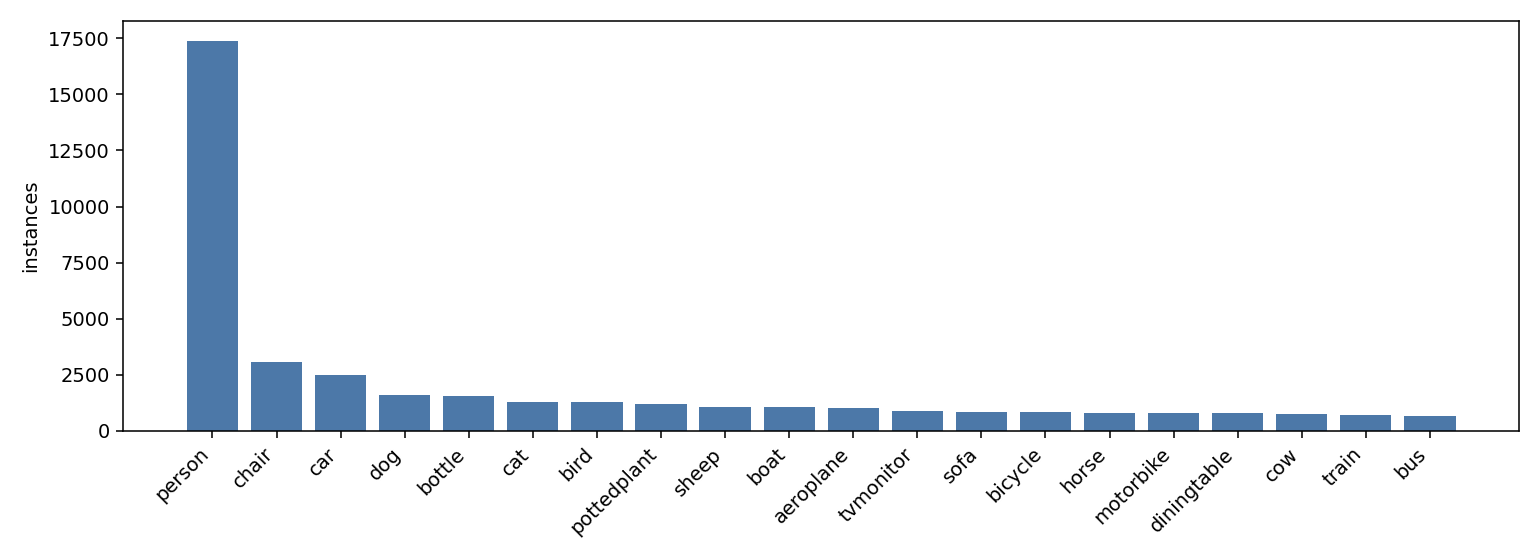
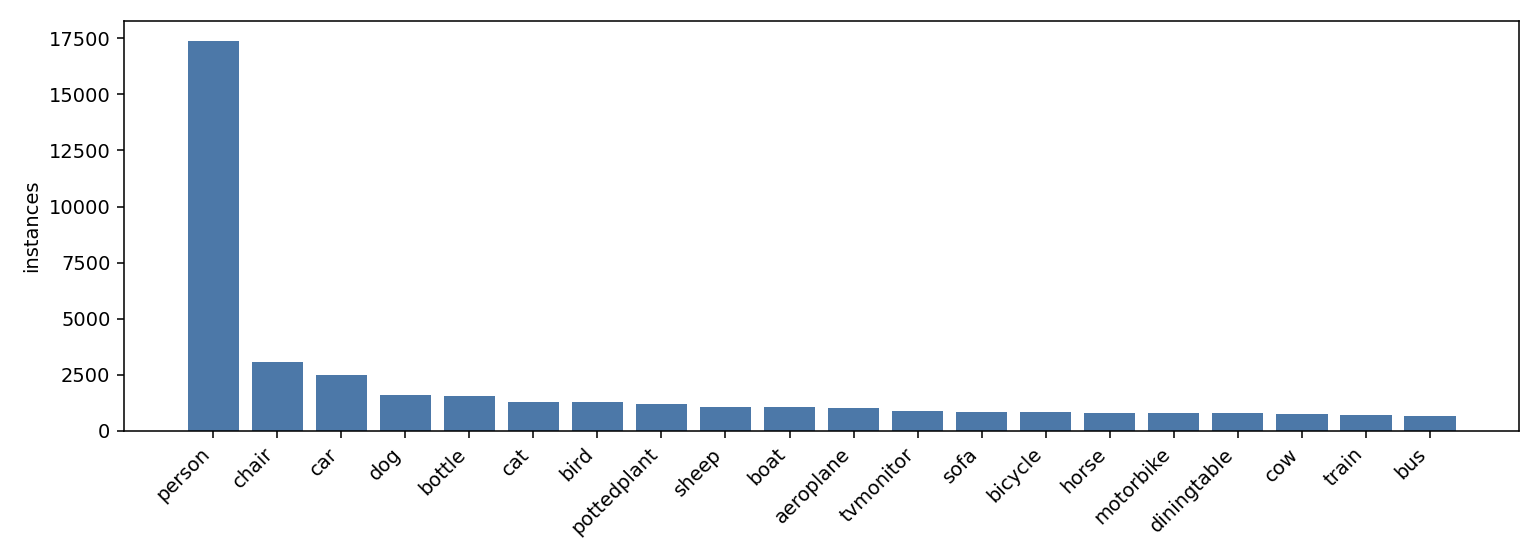
D2: 完成 VOC 数据集类与画框验证脚本

diff --git a/scripts/VOC_dataset.py b/scripts/VOC_dataset.py
@@ -1,0 +1,126 @@
+import os                        # 拼路径、列目录、判断文件存在
+import glob                      # 批量扫 *.xml —— 比 os.listdir 少写一步过滤
+import xml.etree.ElementTree as ET   # 解析 XML —— 标准库，不用 pip
+import numpy as np               # 组装 boxes/labels 数组
+import cv2                       # 读图 —— 比 PIL 快，且 BGR 顺序正好能练"记得转 RGB"
+import torch                     # 转 tensor —— Dataset 的标准返回类型
+from torch.utils.data import Dataset   # 继承基类 —— 只用它的接口约定，没有实际功能
+
+VOC_CLASSES = [
+    "aeroplane", "bicycle", "bird", "boat", "bottle",
+    "bus", "car", "cat", "chair", "cow",
+    "diningtable", "dog", "horse", "motorbike", "person",
+    "pottedplant", "sheep", "sofa", "train", "tvmonitor",
+]
+
+class VOCDataset(Dataset):
+    def __init__(self, voc_root,split="train",skip_difficult=False):
+        self.voc_root = voc_root
+        self.split = split
+        self.skip_difficult = skip_difficult
+
+        # 参数 voc_root: str，VOC2012 根目录
+        #   例：r"D:\target_detection\data\VOCdevkit\VOC2012"
+        # 参数 split: str，用哪个划分，"train"/"val"/"trainval"
+        # 参数 skip_difficult: bool，是否跳过 difficult=1 的框
+        #   为什么默认 False：训练时保留能见更多样本；评估时必须开 True 才和 VOC 官方口径一致
+
+        self.ann_dir = os.path.join(voc_root, "Annotations")
+        self.jpeg_dir = os.path.join(voc_root, "JPEGImages")
+        self.set_dir = os.path.join(voc_root, "ImageSets", "Main")
+
+        #第一步，扫描所有xml
+        xml_files = glob.glob(os.path.join(self.ann_dir, "*.xml"))
+        #排序后每次运行样本一致，方便调试
+        xml_files = sorted(xml_files)
+        #存图片的id
+        all_stems = [os.path.splitext(os.path.basename(p))[0] for p in xml_files]
+
+        #按split过滤
+        if split == "all":         #不做过滤
+            self.stems = all_stems
+        else:
+            split_file = os.path.join(self.set_dir, f"{split}.txt")
+            with open(split_file, "r") as f:
+                # 变量 keep：set[str]，该划分包含的图片 id
+                #   为什么用 set 不用 list：下面要做 17125 次成员判断，
+                #   set 是 O(1) 哈希查找，list 是 O(n) 遍历 —— 差三个数量级
+                keep = {line.strip() for line in f if line.strip()}
+                # 【坑】一定要 if line.strip() 过滤空行
+                #   train.txt 末尾可能有空行，不过滤会在 keep 里塞进一个空字符串
+                self.stems = [s for s in all_stems if s in keep]
+        #检查
+        if len(self.stems) == 0:
+            raise ValueError(
+                f"样本数为 0!检查 voc_root 和 split:\n"
+                f"  voc_root = {voc_root}\n"
+                f"  split    = {split}\n"
+                f"  路径存在 = {os.path.exists(voc_root)}"
+            )
+
+
+    def _parse_xml(self,stem):
+        #定位并解析xml
+        xml_path = os.path.join(self.ann_dir, f"{stem}.xml")
+        #   返回 root: xml.etree.ElementTree.Element，代表 <annotation> 根节点
+        root = ET.parse(xml_path).getroot()
+        #取出所有物体
+        objs = root.findall("object")
+        #逐条读取，边读变换算
+        boxes_list = []
+        label_list = []
+
+        for obj in objs:
+            if self.skip_difficult and int(obj.find("difficult").text)==1:
+                continue
+            #类别，编号0被“背景”占用，要加1
+            label =VOC_CLASSES.index(obj.find("name").text) +1
+
+            #坐标
+            bb = obj.find("bndbox")
+            x1 = float(bb.find("xmin").text) -1
+            y1 = float(bb.find("ymin").text) -1 
+            x2 = float(bb.find("xmax").text) - 1
+            y2 = float(bb.find("ymax").text) -1
+            boxes_list.append([x1,y1,x2,y2])
+            label_list.append(label)
+        #组装成numpy并自检
+        #为什么必须显式指定 dtype：不写 numpy 默认 float64（整数默认 int64 但平台相关），
+        #  而 torch 默认 float32，不一致会报错
+        #         reshape(-1,4) 把它变成 (0,4)，保证空图也能返回正确形状而不崩
+        boxes = np.array(boxes_list,dtype=np.float32).reshape(-1,4)
+        labels = np.array(label_list,dtype=np.int64)
+        #最后的检查
+        assert boxes.shape[0] == labels.shape[0], "框和类别数量不一致，配对出错" #第0维都是物体的个数
+
+        return boxes,labels
+
+    def __len__(self):
+        return len(self.stems)
+    #返回数据集有多少张图
+    
+    #给定下标idx，返回图像和标签
+    def __getitem__(self,idx):
+        stem = self.stems[idx]
+        #读图，imread返回[H,W,3]
+        #注意：cv2读出来的是BGR顺序，不是RGB
+        img_path = os.path.join(self.jpeg_dir, f"{stem}.jpg")
+        img = cv2.imread(img_path)
+        
+        #四个转换
+        #BGR->RGB
+        img = cv2.cvtColor(img,cv2.COLOR_BGR2RGB)
+        #转换成float32 
+        img = img.astype(np.float32)
+        #归一化到0~1
+        img = img / 255.0
+        #HWC->CHW(深度学习要)
+        img = img.transpose(2,0,1)
+        #转换成torch tensor
+        img = torch.from_numpy(img)
+
+        #读标签
+        boxes,labels = self._parse_xml(stem)
+        #返回
+        return img,{"boxes":boxes,"labels":labels}
+        

diff --git a/scripts/VOC_detect.py b/scripts/VOC_detect.py
@@ -5,13 +5,15 @@ import numpy as np #数组运算
 import matplotlib.pyplot as plt #画图
 from xml.etree import ElementTree as ET
 
+BASE = os.path.dirname(os.path.dirname(os.path.abspath(__file__)))
+OUT = os.path.join(BASE, "outputs")
 VOC = r"D:\target_detection\data\VOCdevkit\VOC2012"
 ANN = os.path.join(VOC, "Annotations")
 
 #累加器
 cls_cnt = Counter()
 per_img = [] #每张图的框数
-areas = [] #每个图的面积
+areas = [] #每个框的面积
 w_list = [] #每个框的宽
 h_list = [] #每个框的高
 n_diff = 0 #difficult = 1 的框数
@@ -29,7 +31,7 @@ for xml_path in glob.glob(os.path.join(ANN, "*.xml")):
         bb = obj.find("bndbox")
         x1 =float(bb.find("xmin").text)     # 变量 x1：float，框左上角 x 坐标
         y1 = float(bb.find("ymin").text)    # 变量 y1：框左上角 y 坐标
-        x2 = float(bb.find("xmax").text)    # 变量 y1：框左上角 y 坐标
+        x2 = float(bb.find("xmax").text)    # 变量 x2: 框右下角 x 坐标
         y2 = float(bb.find("ymax").text)    # 变量 y2：框右下角 y 坐标
         w =  x2-x1
         h = y2-y1
@@ -50,7 +52,7 @@ small = (areas < 32 ** 2).mean() * 100
 large = (areas > 96 ** 2).mean() * 100
 print(f"small {small:.1f}% / medium {100 - small - large:.1f}% / large {large:.1f}%")
 #画图
-os.makedirs("outputs", exist_ok=True)
+os.makedirs(OUT, exist_ok=True)
 items = cls_cnt.most_common()                 # [(类别, 框数), ...] 已降序
 
 # 图1：类别分布 —— 看长尾
@@ -59,7 +61,7 @@ plt.bar([k for k, _ in items], [v for _, v in items], color="#4C78A8")
 plt.xticks(rotation=45, ha="right")           # 类别名横排会糊在一起，转 45 度
 plt.ylabel("instances")
 plt.tight_layout()                            # 自动留边距，否则旋转后的标签被裁掉
-plt.savefig("outputs/fig1_class.png", dpi=140)
+plt.savefig(os.path.join(OUT, "fig1_class.png"), dpi=140)
 plt.close()                                   # 必须关掉，否则下一张图画在同一画布上
 
 # 图2：每图框数 —— 看密度
@@ -68,15 +70,15 @@ plt.hist(per_img, bins=range(0, per_img.max() + 2), color="#4C78A8")
 plt.xlabel("objects per image")
 plt.ylabel("images")
 plt.tight_layout()
-plt.savefig("outputs/fig2_per_image.png", dpi=140)
+plt.savefig(os.path.join(OUT, "fig2_per_image.png"), dpi=140)
 plt.close()
 
 # 图3：框宽高 —— 看尺度
 plt.figure(figsize=(8, 4))
-plt.hist(w_list, bins=50, alpha=0.6, label="width")    # alpha 半透明，重叠处才看得见
-plt.hist(h_list, bins=50, alpha=0.6, label="height")
+plt.hist(w_list, bins=50, alpha=0.6, label="width",range=(0,500))    # alpha 半透明，重叠处才看得见
+plt.hist(h_list, bins=50, alpha=0.6, label="height",range=(0,500))
 plt.legend()
 plt.xlabel("pixels")
 plt.tight_layout()
-plt.savefig("outputs/fig3_size.png", dpi=140)
+plt.savefig(os.path.join(OUT, "fig3_size.png"), dpi=140)
 plt.close()

diff --git a/scripts/visualize_boxes.py b/scripts/visualize_boxes.py
@@ -1,0 +1,34 @@
+import cv2
+import os
+import sys
+sys.path.insert(0, os.path.dirname(os.path.dirname(os.path.abspath(__file__))))
+from scripts.VOC_dataset import VOCDataset,VOC_CLASSES
+
+#建数据集
+ds =VOCDataset(r"D:\target_detection\data\VOCdevkit\VOC2012", split="train")
+
+#挑3张有代表性的图片
+stems = ["2007_000027", "2007_000032", "2008_007069"]
+out_dir = r"D:\target_detection\outputs"
+os.makedirs(out_dir, exist_ok=True)
+
+for stem in stems:
+    #读图
+    img = cv2.imread(os.path.join(ds.jpeg_dir, f"{stem}.jpg"))
+
+    #复用_parse_xml函数,拿到框和类别
+    boxes, labels = ds._parse_xml(stem)
+
+    #遍历每个框，画矩形+写类别
+    for(x1,y1,x2,y2),label in zip(boxes,labels):
+        x1,y1,x2,y2 = int(x1),int(y1),int(x2),int(y2)
+        #画框
+        cv2.rectangle(img,(x1,y1),(x2,y2),color=(0,0,255),2)
+        #类别编号
+        name =VOC_CLASSES[label-1]
+        cv2.putText(img,name,(x1,y1-5),
+        cv2.FONT_HERSHEY_SIMPLEX,0.5,(0,255,0),1)
+
+    #保存
+    cv2.imwrite(os.path.join(out_dir,f"{stem}_boxes.jpg"),img)
+    print(f"已保存{stem}_boxes.jpg ,共 {len(boxes)} 个框")
